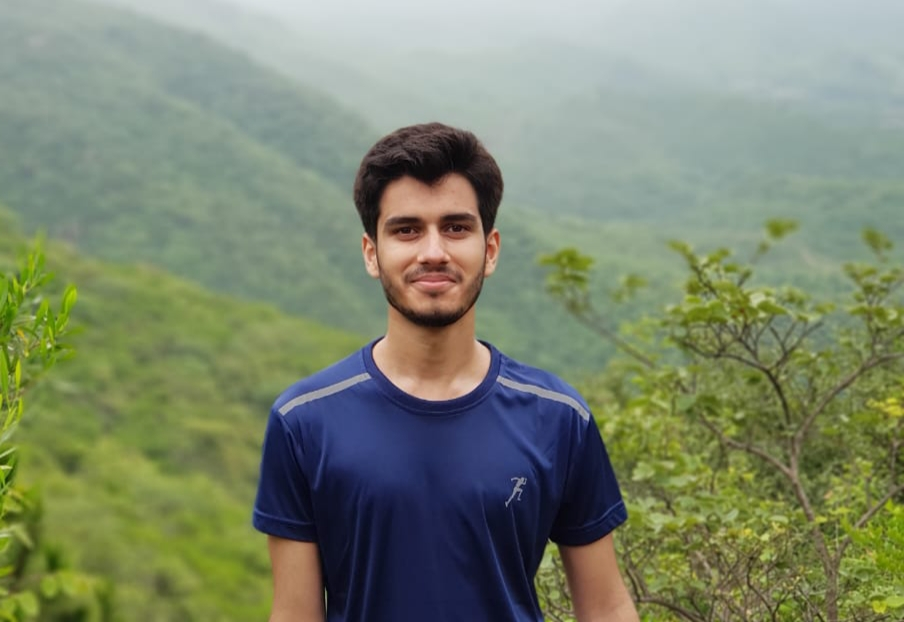
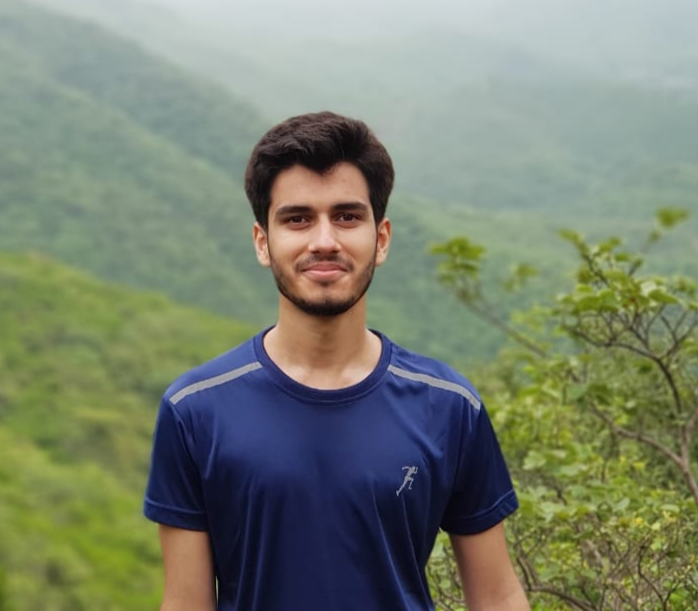
upload team

diff --git a/templates/projects/card.html b/templates/projects/card.html
@@ -10,11 +10,13 @@
 <div class="card mb-3" style="min-width: 100%;">
       <div class="row no-gutters">
                     <div class="col-md-2">
+
+                    <div style='max-height:200px;'>
                                         <div class="view view-cascade overlay card-image ">
 
 
 
-                                      <img src='/{{project.image}}' class="card-image" style="min-width: 100%; max-width:200px max-height:200px" />
+                                      <img src='/{{project.image}}' class="card-image" height='200px' width='200px' style="min-width: 100%; max-width:200px; max-height:200px;   display: block; max-width: 100%; height: auto;" />
 
 
                                       <a href="/projects/{{project.id}}">
@@ -27,6 +29,8 @@
                                           </a>
                                         </div>
 
+                                </div>
+
                     </div>
     <div class="col-md-8">
       <div class="card-body">
@@ -35,19 +39,19 @@
 
                  
 
-  
+  {% if project.info %}
 
                     <p class="card-text ">
                     
               
-                  <p class="text-truncate">{{project.description}}</p>
+                  <p class="text-truncate">{{project.info}}</p>
 
                     
                     
                     </p>
                     
         
-        
+        {% endif %}
                                     
                              <div class='d-flex flex-row'>
         

diff --git a/templates/students/view.html b/templates/students/view.html
@@ -8,23 +8,29 @@
       <h2>{{student.extra_data.name}}</h2>
     </div>
 
-    <div class="d-flex flex-row justify-content-center">
+    <div class="d-flex flex-column justify-content-center">
  
 
       {% if user.socialaccount_set.all.0 == student %}
 
+  <div class="d-flex flex-row justify-content-center">
 
+      <a href="/accounts/profile/edit" class="btn btn-primary">Edit Profile</a>
 
+</div>
+
+  <div class="d-flex flex-row justify-content-center">
       <a href="/accounts/profile/my_projects" class="btn btn-primary"
         >My Projects</a
       >
-
-      <a href="/accounts/profile/edit" class="btn btn-primary">Edit Profile</a>
 
 
       <a href="/accounts/profile/add_projects" class="btn btn-primary"
         >Add Project</a
       >
+
+</div>
+
 
       {% else %}
 

diff --git a/templates/Footer.html b/templates/Footer.html
@@ -16,7 +16,10 @@
           </ul>
           <p class="text-muted small mb-4 mb-lg-0">&copy; Collab 2020. All Rights Reserved.</p>
         </div>
-        <div class="col-lg-6 h-100 text-center text-lg-right my-auto">
+
+
+
+        {% comment %} <div class="col-lg-6 h-100 text-center text-lg-right my-auto">
           <ul class="list-inline mb-0">
             <li class="list-inline-item mr-3">
               <a href="#">
@@ -34,7 +37,12 @@
               </a>
             </li>
           </ul>
-        </div>
+
+
+        </div> {% endcomment %}
+
+
+
       </div>
     </div>
   </footer>

diff --git a/templates/projects/view.html b/templates/projects/view.html
@@ -54,7 +54,59 @@
     </div>
 
 
+  {% if project.info %}
+
+
+
+
+  <p align='center' style='margin-top:20px;'>
+
+Info: 
+  {{project.info}}
+
+
+  </p>
+
+  {% endif %}
+
+     {% if project.team %}
+
+
+
+
+  <p align='center' style='margin-top:20px;'>
+
+Team: 
+  {{project.team}}
+
+
+  </p>
+
+  {% endif %}
+
+
+      {% if project.completed %}
+
+<h5 align='center'>
+Completed
+</h5>
+
+{% else %}
+
+<h5 align='center'>
+Not Completed
+</h5>
+
+
+  {% endif %}
+
   </div>
+
+
+ 
+
+
+
 
   {% if project.description %}
   <div class="jumbotron">

diff --git a/templates/Team.html b/templates/Team.html
@@ -24,7 +24,7 @@
     <!-- Grid column -->
     <div style="margin-left: 100px;" class=" animate__animated animate__fadeInRight col-lg-3 col-md-6 mb-lg-0 mb-5">
       <div class="avatar mx-auto">
-        <img style="height: 300px;width: 300px;" src="/static/team/ahmed.jpg" class="rounded-circle z-depth-1"
+        <img style="height: 300px;width: 300px;" src="/static/team/ahmad.jpg" class="rounded-circle z-depth-1"
           alt="Sample avatar">
       </div>
       <h5 class="font-weight-bold mt-4 mb-3">MUHAMMAD AHMED</h5>

diff --git a/templates/Header.html b/templates/Header.html
@@ -303,8 +303,8 @@ Under Construction
 
 </div>
 
-         <form class="form-inline mt-2 mt-md-0">
-          <input class="form-control mr-sm-2" type="text" placeholder="Search">
+         <form action='/search' class="form-inline mt-2 mt-md-0">
+          <input name='q' class="form-control mr-sm-2" type="text" placeholder="Search">
           
         </form> 
 

diff --git a/Projects/forms.py b/Projects/forms.py
@@ -32,6 +32,10 @@ class add_project_form(ModelForm):
         Field('youtube_link', css_class='form-control'),
         Field('report', css_class='form-control'),
         Field('description', rows="3" , css_class='form-control md-textarea'),
+        Field('completed', css_class='form-control'),
+
+        Field('info', rows="3" , css_class='form-control md-textarea'),
+        Field('team', rows="3" , css_class='form-control md-textarea'),
     )
 
 
@@ -42,7 +46,7 @@ class add_project_form(ModelForm):
 
         #remove university for final as it will be verified and added through email
 
-        fields = ['full_name','assigned_project','description', 'image','report','git_link','youtube_link']
+        fields = ['full_name','assigned_project','description', 'image','report','git_link','youtube_link','info','team','completed']
 
 
 
@@ -67,6 +71,10 @@ class edit_project_form(ModelForm):
         Field('youtube_link', css_class='form-control'),
         Field('report', css_class='form-control'),
         Field('description', rows="3" , css_class='form-control md-textarea'),
+                Field('completed', css_class='form-control'),
+
+        Field('info', rows="3" , css_class='form-control md-textarea'),
+        Field('team', rows="3" , css_class='form-control md-textarea'),
     )
 
 
@@ -77,4 +85,4 @@ class edit_project_form(ModelForm):
 
         #remove university for final as it will be verified and added through email
 
-        fields = ['full_name','assigned_project','description', 'image','report','git_link','youtube_link']
+        fields = ['full_name','assigned_project','description', 'image','report','git_link','youtube_link','info','team','completed']

diff --git a/Projects/migrations/0006_auto_20201208_1758.py b/Projects/migrations/0006_auto_20201208_1758.py
@@ -1,0 +1,33 @@
+# Generated by Django 3.1.3 on 2020-12-08 17:58
+
+from django.db import migrations, models
+
+
+class Migration(migrations.Migration):
+
+    dependencies = [
+        ('Projects', '0005_auto_20201207_1743'),
+    ]
+
+    operations = [
+        migrations.AddField(
+            model_name='project',
+            name='completed',
+            field=models.BooleanField(default=True),
+        ),
+        migrations.AddField(
+            model_name='project',
+            name='info',
+            field=models.TextField(blank=True, null=True),
+        ),
+        migrations.AddField(
+            model_name='project',
+            name='team',
+            field=models.TextField(blank=True, null=True),
+        ),
+        migrations.AlterField(
+            model_name='project',
+            name='git_link',
+            field=models.URLField(blank=True, null=True, verbose_name='Project Files'),
+        ),
+    ]

diff --git a/Projects/models.py b/Projects/models.py
@@ -53,8 +53,14 @@ class Project(models.Model):
 
     youtube_link= models.URLField(null=True,blank=True)
 
+    info=models.TextField(null=True,blank=True)
+
+    team=models.TextField(null=True,blank=True)
+
+    completed=models.BooleanField(default=True)
 
     description=models.TextField(null=True,blank=True)
+    
     image=models.ImageField(upload_to ='static/project/img',default='static/img/default_project.jpg')
 
 

diff --git a/search/views.py b/search/views.py
@@ -26,7 +26,7 @@ def search_projects(request):
         if query is not None:
 
 
-            lookups= Q(full_name__icontains=query) | Q(description__icontains=query)
+            lookups= Q(full_name__icontains=query) | Q(description__icontains=query ) | Q(info__icontains=query )| Q(team__icontains=query )
 
             project_results= Project.objects.filter(lookups).distinct().order_by('-id')
 
